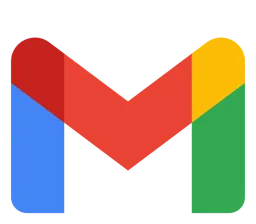
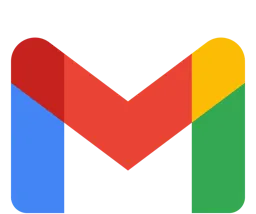
update README.md and gmail.webp

diff --git a/README.md b/README.md
@@ -2,7 +2,7 @@
 
 Hello, I am Vu Van Nghia. You can contact me via email:
 <a href="mailto:whynotnghiavu@gmail.com" target="_blank" style="display: inline-flex; align-items: center;">
-<img src="contents/pictures/gmail.webp" alt="whynotnghiavu@gmail.com" style="width: 16px; height: 16px; margin-left: 5px;" />
+<img src="contents/pictures/gmail.webp" alt="whynotnghiavu@gmail.com" style="width: 20px; height: 20px; margin-left: 5px;" />
 </a>
 
 <hr>
